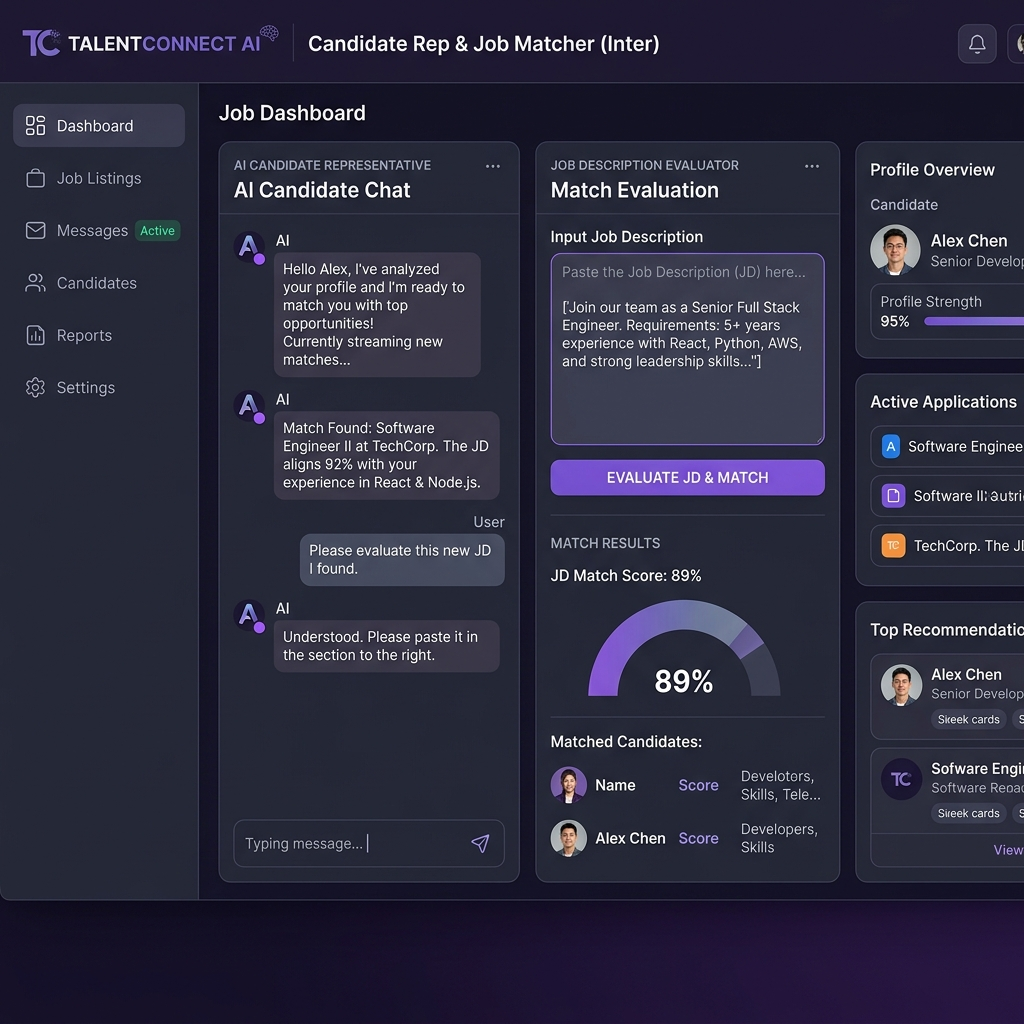
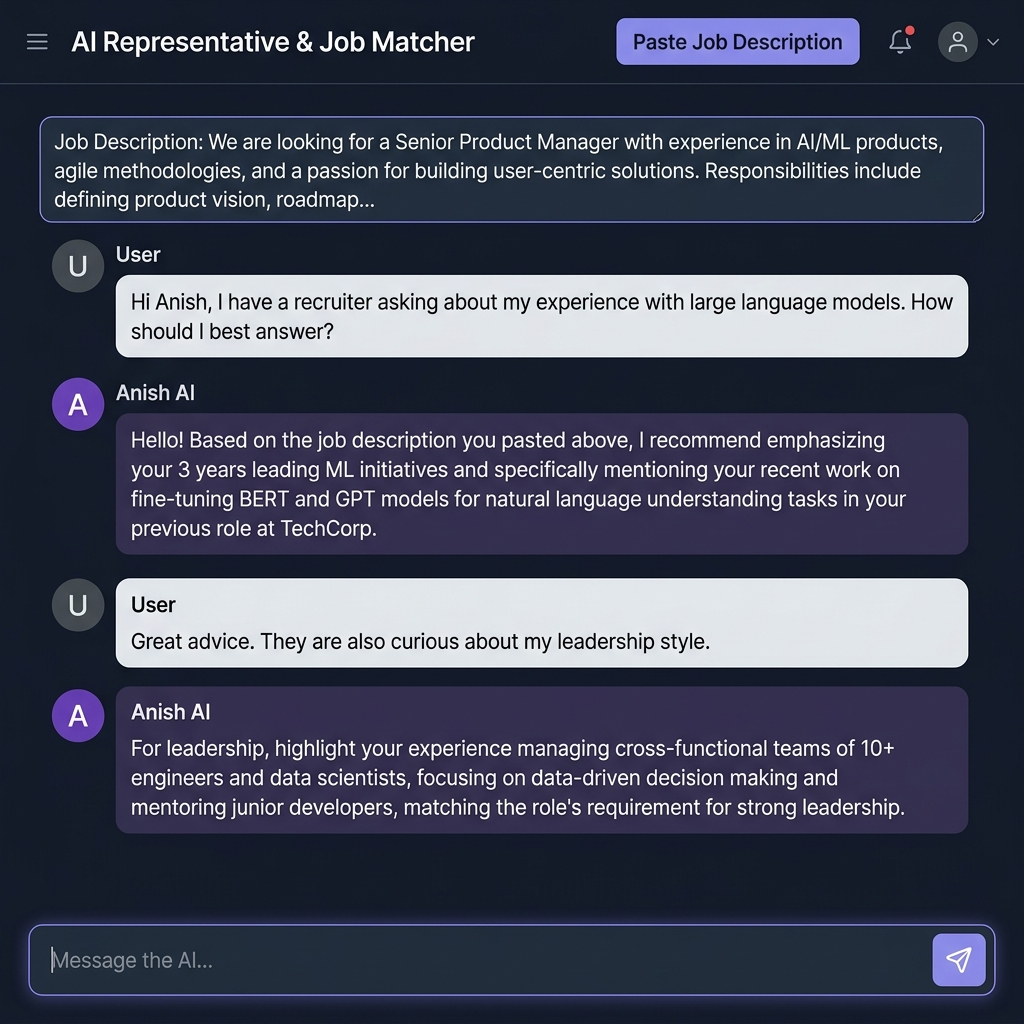
docs: replace preview screenshot with accurate UI layout and clean README

diff --git a/README.md b/README.md
@@ -7,17 +7,9 @@
 [![Render](https://img.shields.io/badge/Render-46E3B7?style=for-the-badge&logo=render&logoColor=white)](https://render.com/)
 [![Vercel](https://img.shields.io/badge/Vercel-000000?style=for-the-badge&logo=vercel&logoColor=white)](https://vercel.com/)
 
-An interactive AI-powered representative portfolio application. This project features an AI persona grounded on professional profile data (`profile.json`) powered by **FastAPI**, **Groq (LLaMA 3.3 70B)**, and **React + Vite**. It answers questions about candidate skills and evaluates candidate suitability directly against pasted Job Descriptions in real-time streaming responses.
+An interactive AI-powered representative portfolio application. This project features an AI persona grounded on candidate profile data (`profile.json`) powered by **FastAPI**, **Groq (LLaMA 3.3 70B)**, and **React + Vite**. It answers recruiter queries and evaluates candidate suitability directly against pasted Job Descriptions in real-time streaming responses.
 
-![AI Portfolio Preview](./preview.png)
-
----
-
-## 🚀 Live Demo & Links
-
-- 🌐 **Live Website (Frontend):** [Deploy on Vercel](https://vercel.com) *(Update with your Vercel URL)*
-- ⚡ **Live API (Backend):** [Deployed on Render](https://render.com) *(Update with your Render URL)*
-- 📦 **GitHub Repository:** [ai-portfolio-backend](https://github.com/anishsingh-collab/ai-portfolio-backend)
+![AI Portfolio UI Screenshot](./preview.png)
 
 ---
 
@@ -36,12 +28,12 @@ An interactive AI-powered representative portfolio application. This project fea
 - **Framework:** FastAPI (Python)
 - **AI Inference Engine:** Groq API (`llama-3.3-70b-versatile`)
 - **Server:** Uvicorn ASGI
-- **Deployment:** Render (Free Web Service)
+- **Hosting:** Render
 
 ### Frontend
 - **Framework:** React 19 + Vite
 - **Styling:** Custom Modern CSS
-- **Deployment:** Vercel
+- **Hosting:** Vercel
 
 ---
 
@@ -58,7 +50,7 @@ ai_portfolio/
 │   ├── src/                 # React UI components & App styling
 │   ├── package.json         # Node dependencies
 │   └── vite.config.js       # Vite configuration
-├── preview.png              # README Screenshot preview
+├── preview.png              # UI Screenshot preview
 ├── requirements.txt         # Root fallback requirements
 └── .gitignore               # Excludes secrets & node_modules
 ```
@@ -90,7 +82,7 @@ echo "GROQ_API_KEY=your_groq_api_key_here" > .env
 # Run FastAPI backend
 uvicorn backend:app --reload --port 8000
 ```
-*Backend runs on `http://127.0.0.1:8000`*
+*Backend runs locally on `http://127.0.0.1:8000`*
 
 ### 3. Frontend Setup
 ```bash
@@ -102,7 +94,7 @@ npm install
 # Start Vite dev server
 npm run dev
 ```
-*Frontend runs on `http://localhost:5173`*
+*Frontend runs locally on `http://localhost:5173`*
 
 ---
 
